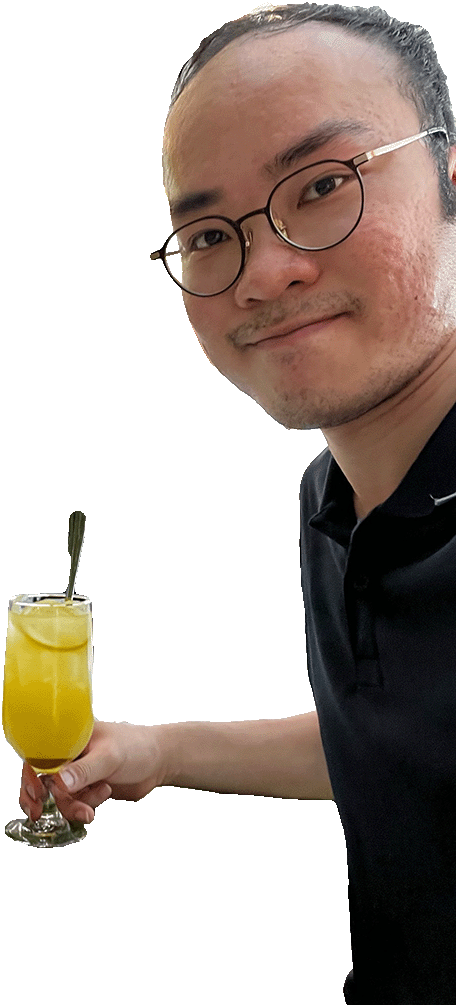
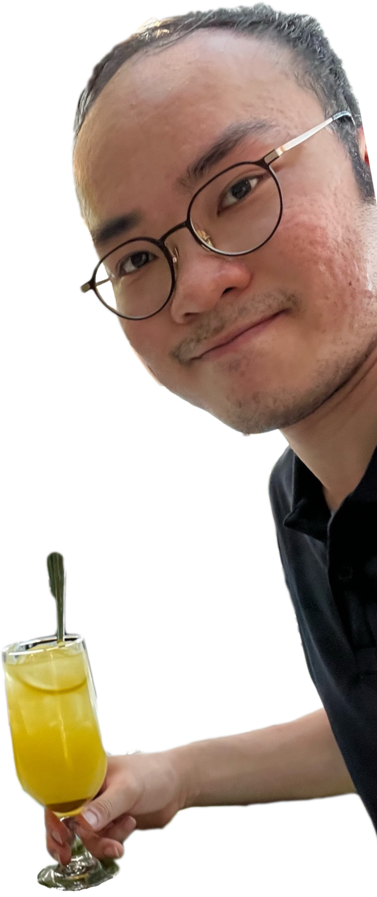
:bug: fix the asset to fix all issues with overflow support

diff --git a/src/component/AboutMe.tsx b/src/component/AboutMe.tsx
@@ -32,9 +32,8 @@ ${props => props.theme.breakpoints.largerThanTablet} {
 const Photo = styled.img`
 filter: drop-shadow(-6px -6px 1px #fff);
 position: absolute;
-right: -20px;
-top: -50px;
-transform: rotate(-10deg);
+right: 0;
+top: -100px;
 max-width: 300px;
 width: 45%;
 `

diff --git a/src/App.tsx b/src/App.tsx
@@ -11,10 +11,6 @@ import { useEffect, useRef } from "react"
 import toast, { Toaster } from "react-hot-toast"
 
 const GlobalStyle = createGlobalStyle`
-html, body {
-  overflow-x: hidden;
-}
-
 body {
   background: ${(defaultTheme as any).palette.common.bright};
 }
